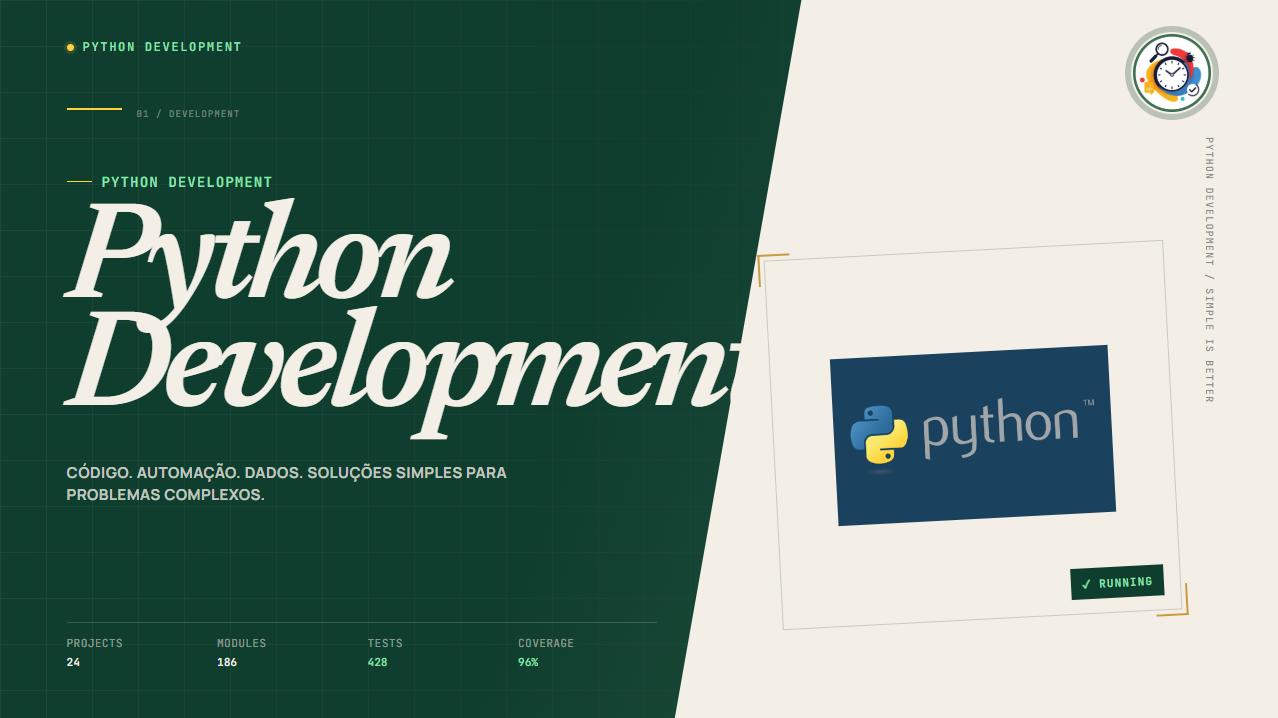
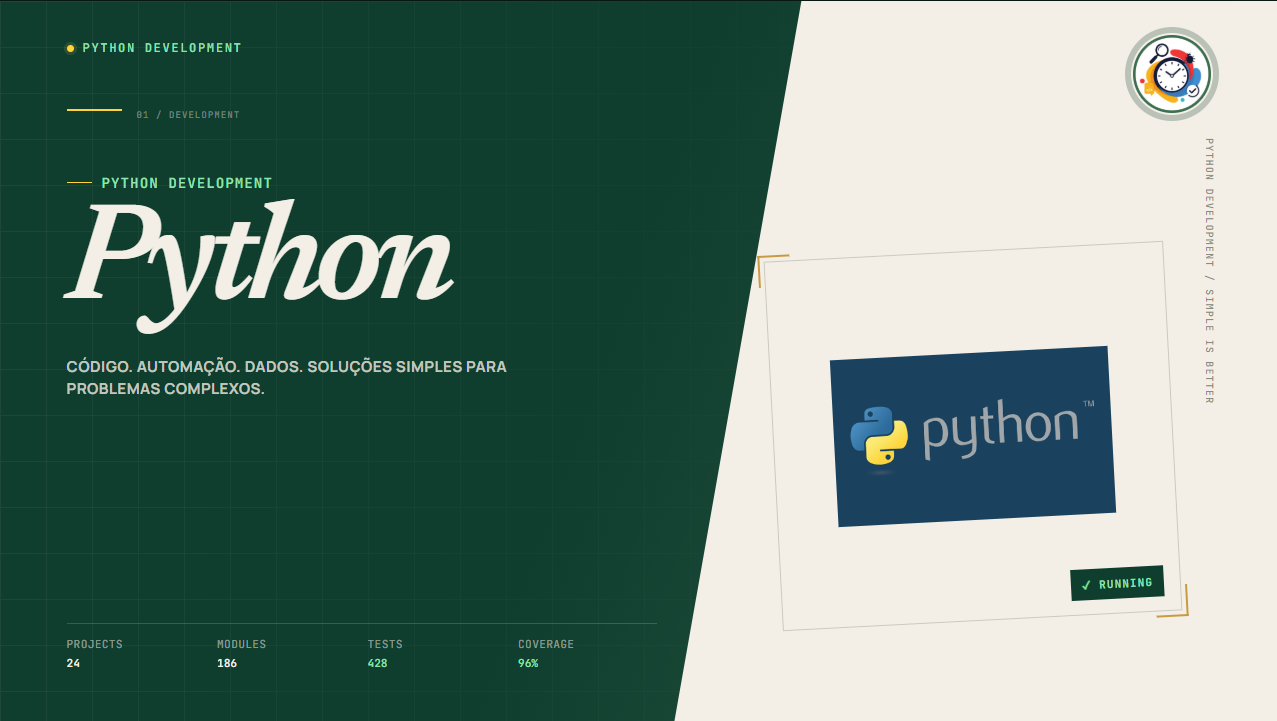
fix: Python

diff --git a/Thumbnail/python/index.html b/Thumbnail/python/index.html
@@ -735,8 +735,7 @@
 
       <h1>
 
-        Python<br>
-        Development
+        Python
 
       </h1>
 
